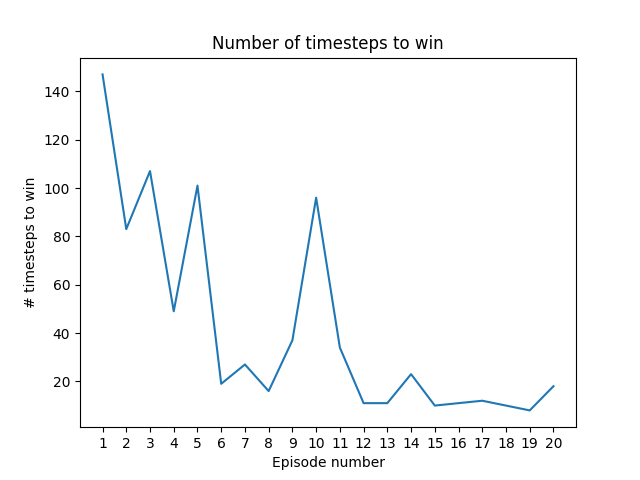
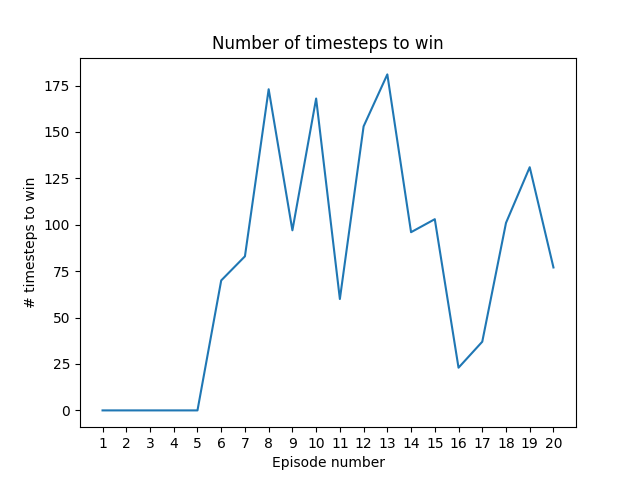
Fixed winning element assignment issues

diff --git a/walkingAgent.py b/walkingAgent.py
@@ -18,13 +18,13 @@ class sim:
         self.max_y=max_y
         self.start_x=0
         self.start_y=0
-        dimensions=(self.max_y,self.max_x)
+        dimensions=(max_y,max_x)
         self.gridmatrix=np.zeros(dimensions,dtype=int)
         self.place_obstacles(numberofobst=int(numobst))
         self.maxstep=maxstep
         self.x=0
         self.y=0
-        self.win=(5,5)
+        self.win=(max_x,max_y)
         self.total_rewards=np.zeros((numepisode),dtype=float)
         self.numsteps2win=np.zeros((numepisode),dtype=int)
         self.gridmatrix[0][0]=-1
@@ -51,13 +51,14 @@ class sim:
         totalreward=0
         while (timestep<self.maxstep and endgame!=True):
             if(simtype==0):
+                timestep+=1
                 self.det_movement(direction=self.direction)
                 if(self.gridmatrix[self.win[1]-1][self.win[0]-1]==-1):
                     endgame=True
                     print("WINNER\n\n\n\n\n\n")
                     self.gridmatrix[self.win[1]-1][self.win[0]-1]=0
-                timestep+=1
             else:
+                timestep+=1
                 self.print_grid()
                 print("step #" + str(timestep) + "\n")
                 action=self.choose_action()
@@ -77,7 +78,6 @@ class sim:
                     self.numsteps2win[i]=timestep
                     self.total_rewards[i]=totalreward
                     self.gridmatrix[self.win[1]-1][self.win[0]-1]=0
-                timestep+=1
         self.print_grid()
         if(self.trap==False):
             self.gridmatrix[self.y][self.x]=0
@@ -87,9 +87,9 @@ class sim:
 
     def init_qtable(self):
         """
-        Initialize Q value matrix
-        actionsize = 5 for the 5 possible directions
-        statesize=100 for all possible 
+        Initialize empty Q value matrix: self.qtable[actionsize][statesize]
+        actionsize = 5 for the 5 possible directions 
+        statesize = total number of grid elements
         """
         actionsize=5 
         self.qtable=np.zeros((self.max_x*self.max_y,actionsize),dtype=float) 
@@ -97,7 +97,7 @@ class sim:
     def init_rewardgrid(self):
         """
         Initialize reward grid associated with Q-Learning
-        Same dimensions as environment grid
+        Fills self.qtable
         """
         self.rewardgrid=np.zeros((self.max_y,self.max_x))
         for i in range(self.max_x):
@@ -111,7 +111,7 @@ class sim:
 
     def choose_action(self):
         """
-        Epsilon Greedy algorithm
+        Epsilon Greedy algorithm to select action
         """
         #choose action
         epsilon=0.1
@@ -126,9 +126,11 @@ class sim:
         return action
 
     def currentlocation2state(self):
+        """
+        converts x,y coordinates to corresponding state value
+        """
         state=self.y*self.max_y+self.x
         return state
-
 
     def update_qtable(self,old_state,new_state,reward,action):
         """
@@ -150,8 +152,7 @@ class sim:
 
     def place_obstacles(self,numberofobst=7):
         """
-        places an input number of obtacles randomly 
-        in the grid
+        places an input number of obtacles randomly in the grid
         """
         for i in range(numberofobst):
             while(1):
@@ -159,7 +160,7 @@ class sim:
                 y=random.choice(range((self.max_y-1)))
                 self.gridmatrix[self.start_y][self.start_x]
                 if(self.gridmatrix[y][x]==0 and 
-                not (x==0 and y==0)):
+                not ((x==0 and y==0) or (x==self.max_x and y==self.max_y))):
                     self.gridmatrix[y][x]=1
                     break		
 
@@ -169,11 +170,7 @@ class sim:
 
     def stoc_movement(self,direction=0):
         """
-        stochastic  movement based on Q-Learning algorithm        
-        Inputs:
-            directions (dtype:str)
-        Outputs:
-            None
+        stochastic  movement based on Q-Learning algorithm
         """
         r=random.random()
         if (r<0.8):
